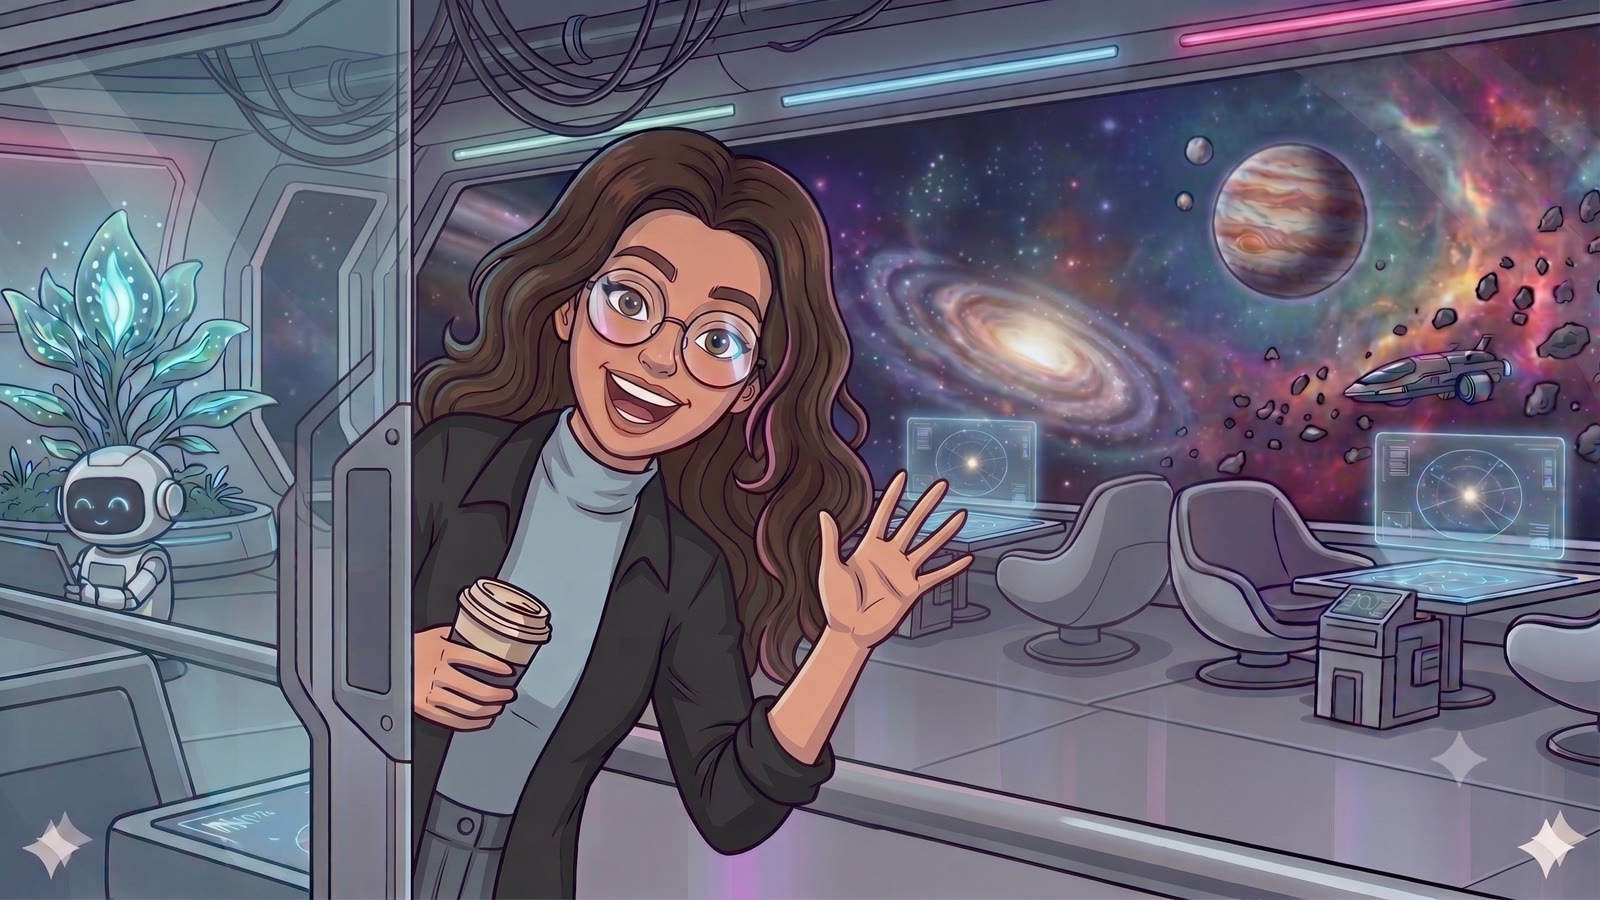
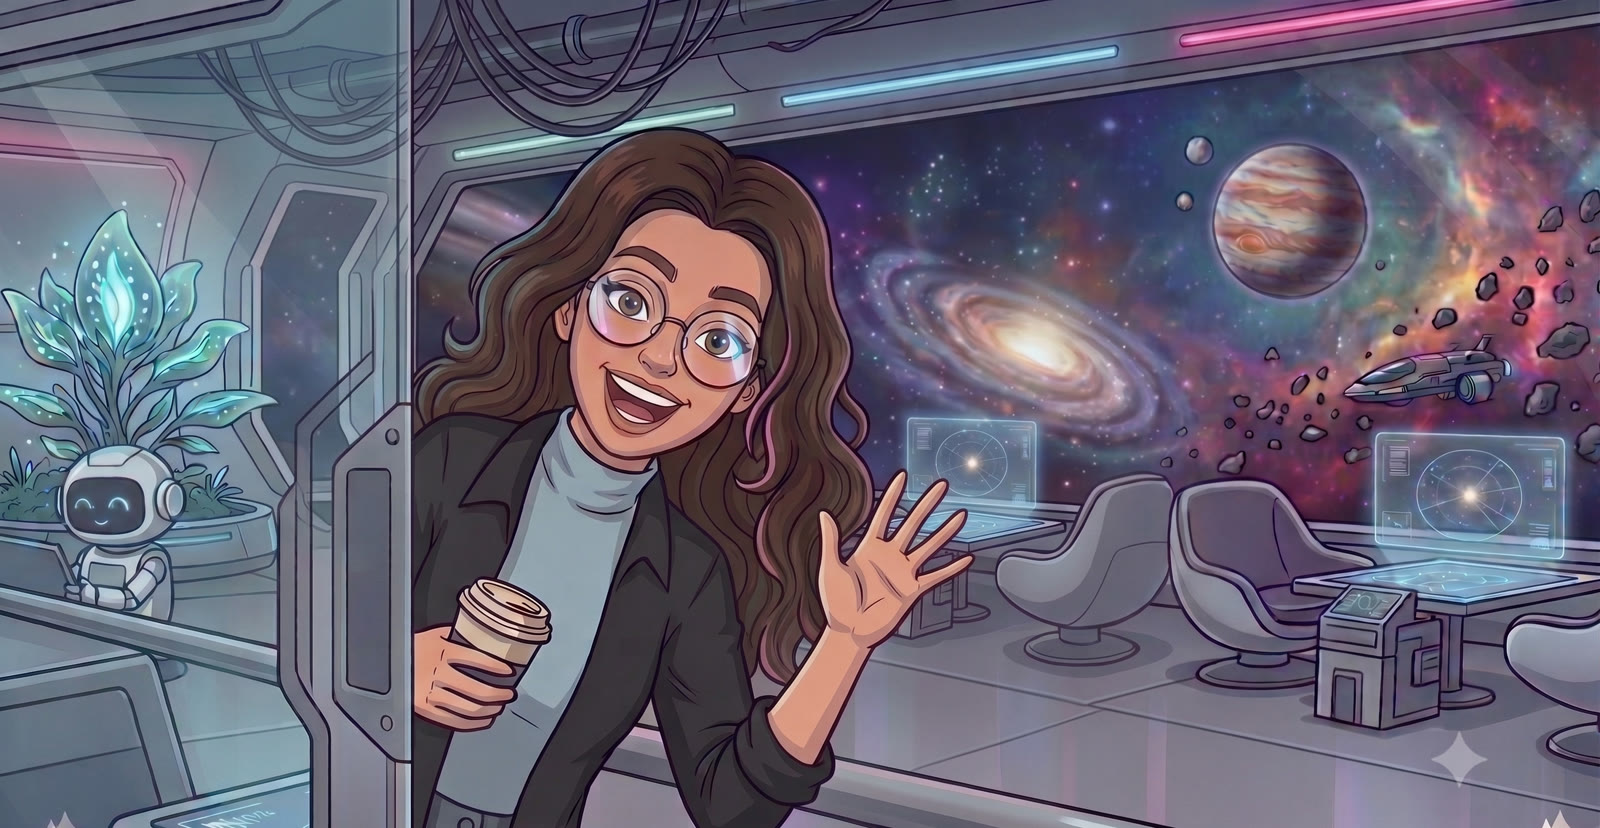
Landing: przycięto znaczek Gemini ze zdjęcia + usunięto wykrzyknik z hasła
- hero-landing.jpg przycięte u dołu (znika znaczek Gemini na telefonie i kompie).
- 'już dzisiaj!' -> 'już dzisiaj.' (bez wykrzyknika).

Claude-Session: https://claude.ai/code/session_01GvCAujpHzGWM2kSEPWnsqA

diff --git a/js/screens/landing.js b/js/screens/landing.js
@@ -22,7 +22,7 @@ export function renderLanding(mount) {
       el('h1.landing__headline', {}, [
         'Wbijaj na statek ',
         el('span.landing__name', { text: 'Izabeli' }),
-        ' i gadaj po angielsku już dzisiaj!',
+        ' i gadaj po angielsku już dzisiaj.',
       ]),
       el('button.btn.btn--primary.btn--lg.landing__cta', { style: 'color:#fff', onclick: () => navigate('#/register') }, ['Wejdź na Statek']),
       el('p.landing__trust', { text: 'Masz 15 godzin na przetestowanie apki i ćwiczenie rozmów po angielsku.' }),
